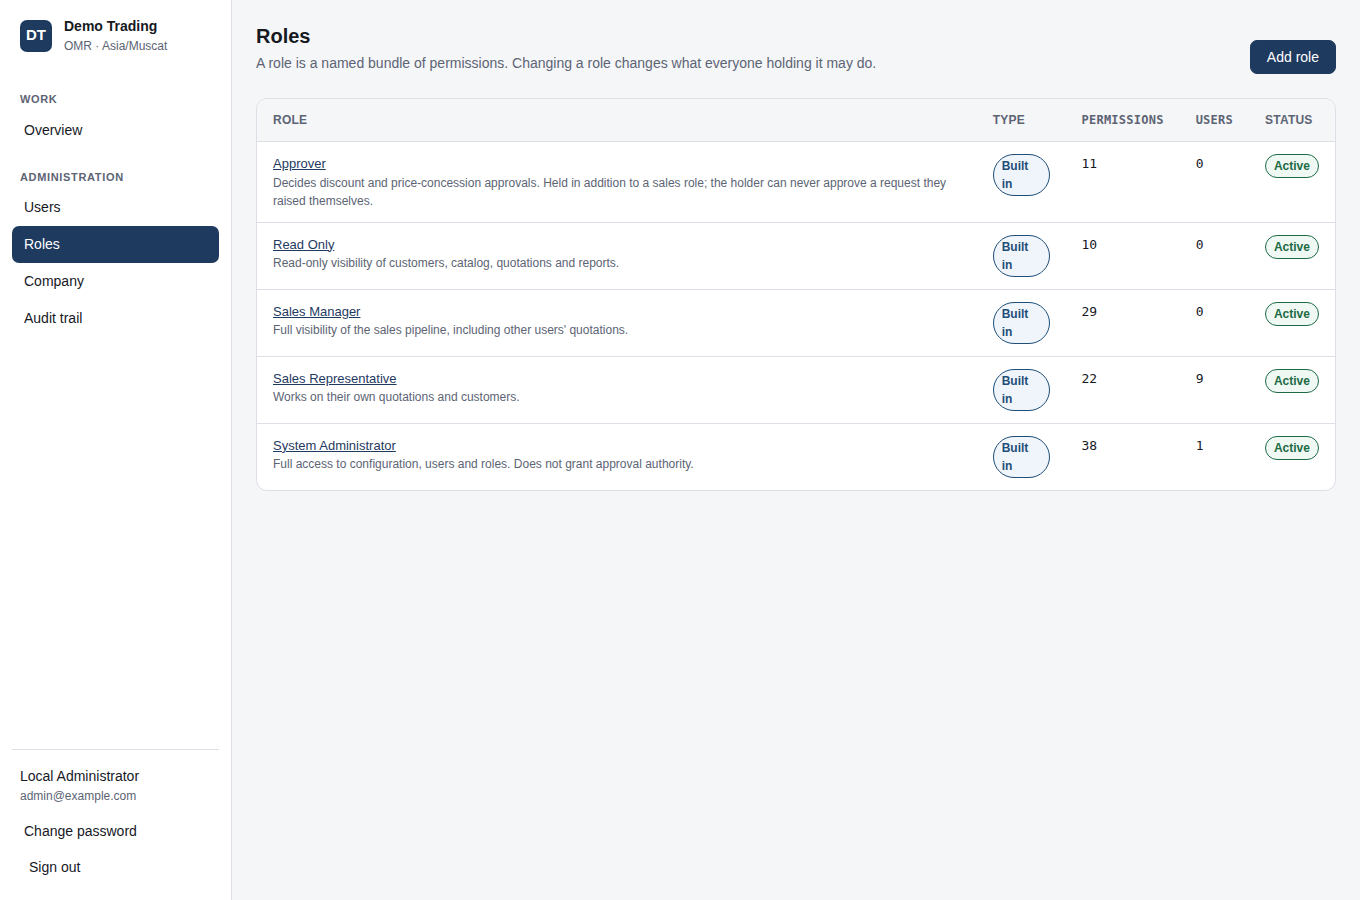
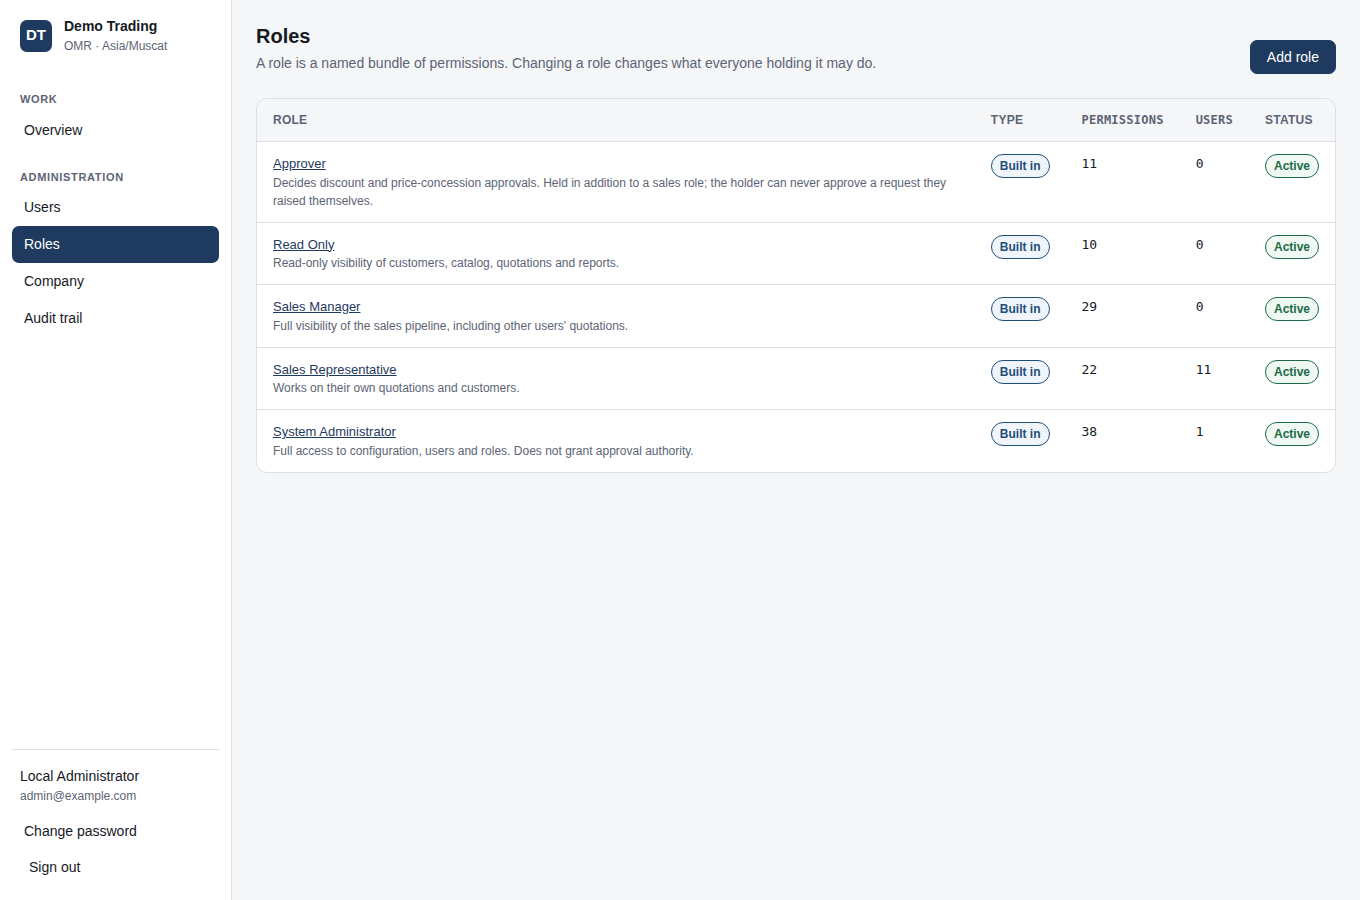
Stop two-word status badges wrapping inside their pill
Found while reviewing the captured browser-test screenshots: "Built in"
broke across two lines in the Roles table. Refreshes the evidence
screenshots from a passing run.

Claude-Session: https://claude.ai/code/session_01MHAooeMshN3udx7Vqy9MTn

diff --git a/frontend/src/styles/theme.css b/frontend/src/styles/theme.css
@@ -294,6 +294,8 @@ table.table { width: 100%; border-collapse: collapse; font-size: 13px; }
   font-size: 12px; font-weight: 600;
   border-radius: 999px;
   border: 1px solid transparent;
+  /* A two-word status must not wrap inside its pill. */
+  white-space: nowrap;
 }
 .badge--neutral { color: var(--text-muted); background: var(--surface-sunken); border-color: var(--border); }
 .badge--success { color: var(--success); background: var(--success-surface); border-color: currentColor; }
